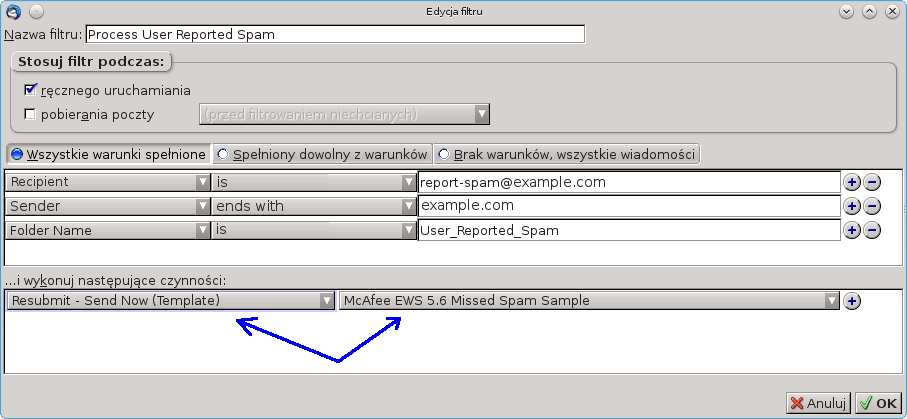
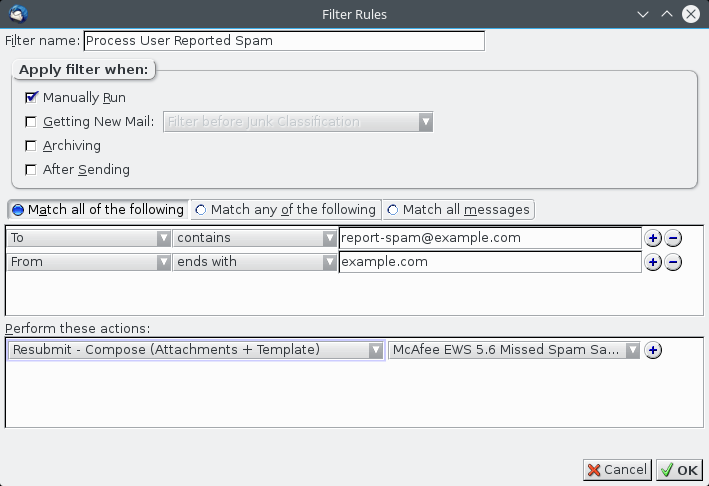
fix issue #5

diff --git a/content/messenger.js b/content/messenger.js
@@ -422,11 +422,12 @@ function Resubmit() {
         }
     };
 
-    function Collector(aCompletionFun) {
-        log("debug: Collector(): called with (" + aCompletionFun + ")", 5);
+    function Collector(aCompletionFun,aReattach) {
+        log("debug: Collector(): called with (" + aCompletionFun + ", " + aReattach + ")", 5);
         log("debug: Collector(): initializing attributes", 6);
         this.notifyComplete = function () { aCompletionFun(); };
         this.attachments = [];
+        this.reattach = aReattach;
         log("debug: Collector(): initialized", 6);
     }
 
@@ -436,12 +437,22 @@ function Resubmit() {
                 attachment,
                 i;
             log("debug: Collector.apply(): attachments.length = " + attachments.length, 7);
-            for (i = 0; i < attachments.length; i += 1) {
-                attachment = attachments[i];
-                if (attachment.contentType === "message/rfc822") {
-                    log("debug: Collector.apply(): adding attachment", 6);
-                    this.attachments.push(attachment);
+            if(this.reattach) {
+                for (i = 0; i < attachments.length; i += 1) {
+                    attachment = attachments[i];
+                    if (attachment.contentType === "message/rfc822") {
+                        log("debug: Collector.apply(): adding attachment", 6);
+                        this.attachments.push(attachment);
+                    }
                 }
+            } else {
+                log("debug: Collector.apply(): creating attachment from message", 6);
+                attachment = Cc["@mozilla.org/messengercompose/attachment;1"]
+                    .createInstance(Components.interfaces.nsIMsgAttachment);
+                attachment.url = aMsgHdr.folder.getUriForMsg(aMsgHdr);
+                attachment.name = aMsgHdr.subject + ".eml";
+                log("debug: Collector.apply(): adding attachment", 6);
+                this.attachments.push(attachment);
             }
             log("debug: Collector.apply(): invoking this.notifyComplete()", 6);
             this.notifyComplete();
@@ -452,16 +463,18 @@ function Resubmit() {
     /**
      * Usage: action = new FilterAction(...)
      */
-    function FilterAction(aId, aName, aMode, aFlag) {
+    function FilterAction(aId, aName, aMode, aFlag, aReattach) {
         log("debug: FilterAction(): called with (" + aId + ", " + aName + ", "
-            + aMode + ", " + aFlag + ")", 5);
+            + aMode + ", " + aFlag + ", " + aReattach + ")", 5);
         log("debug: FilterAction(): initializing attributes", 6);
         this.id = aId;
         this.name = aName;
         this.mode = aMode;
         this.isAvailable = aFlag;
+        this.reattach = aReattach;
         this.maxConcurrentTasks = 1;
         log("debug: FilterAction(): aMode == " + aMode, 7);
+        log("debug: FilterAction(): aReattach == " + aReattach, 7);
         switch (aMode) {
         case self.Modes.SendNow:
             log("debug: FilterAction(): this.deliverMode = Ci.nsIMsgCompDeliverMode.Now", 6);
@@ -659,7 +672,7 @@ function Resubmit() {
             function collectAttachments(aCompletionFun) {
                 log("debug: collectAttachments(): called with (" + aCompletionFun + ")", 5);
                 log("debug: collectAttachments(): creating Collector", 6);
-                collector = new Collector(function () { onAttachmentCollected(); });
+                collector = new Collector(function () { onAttachmentCollected(); }, me.reattach);
                 log("debug: collectAttachments(): created Collector", 7);
                 log("debug: collectAttachments(): reseting collector flags and counters", 6);
                 collectionCanceled = false;
@@ -757,34 +770,64 @@ function Resubmit() {
 
         var filterService = Cc["@mozilla.org/messenger/services/filters;1"]
                 .getService(Ci.nsIMsgFilterService),
-            actionCompose,
-            actionSendNow,
-            actionSendLater;
+            actionComposeAtt,
+            actionSendNowAtt,
+            actionSendLaterAtt,
+            actionComposeMsg,
+            actionSendNowMsg,
+            actionSendLaterMsg;
 
         // Create custom a actions
-        actionSendNow = new FilterAction(
+        actionSendNowAtt = new FilterAction(
             "resubmit@ezamber.pl#actionSendNow",
             self.strings.getString("resubmit.sendnow.name"),
             self.Modes.SendNow,
-            sendNowEnabled
+            sendNowEnabled,
+            true
         );
-        actionSendLater = new FilterAction(
+        actionSendLaterAtt = new FilterAction(
             "resubmit@ezamber.pl#actionSendLater",
             self.strings.getString("resubmit.sendlater.name"),
             self.Modes.SendLater,
-            sendLaterEnabled
+            sendLaterEnabled,
+            true
         );
-        actionCompose = new FilterAction(
+        actionComposeAtt = new FilterAction(
             "resubmit@ezamber.pl#actionCompose",
             self.strings.getString("resubmit.compose.name"),
             self.Modes.Compose,
-            composeEnabled
+            composeEnabled,
+            true
+        );
+        actionSendNowMsg = new FilterAction(
+            "resubmit@ezamber.pl#actionSendNowMsg",
+            self.strings.getString("resubmit.sendnowmsg.name"),
+            self.Modes.SendNow,
+            sendNowEnabled,
+            false
+        );
+        actionSendLaterMsg = new FilterAction(
+            "resubmit@ezamber.pl#actionSendLaterMsg",
+            self.strings.getString("resubmit.sendlatermsg.name"),
+            self.Modes.SendLater,
+            sendLaterEnabled,
+            false
+        );
+        actionComposeMsg = new FilterAction(
+            "resubmit@ezamber.pl#actionComposeMsg",
+            self.strings.getString("resubmit.composemsg.name"),
+            self.Modes.Compose,
+            composeEnabled,
+            false
         );
 
         // Register custom actions
-        filterService.addCustomAction(actionCompose);
-        filterService.addCustomAction(actionSendNow);
-        filterService.addCustomAction(actionSendLater);
+        filterService.addCustomAction(actionComposeAtt);
+        filterService.addCustomAction(actionSendNowAtt);
+        filterService.addCustomAction(actionSendLaterAtt);
+        filterService.addCustomAction(actionComposeMsg);
+        filterService.addCustomAction(actionSendNowMsg);
+        filterService.addCustomAction(actionSendLaterMsg);
     };
 
     self.onLoad = function (e) {

diff --git a/skin/filterEditor.css b/skin/filterEditor.css
@@ -7,3 +7,12 @@
 .ruleactiontarget[type="resubmit@ezamber.pl#actionSendLater"] {
   -moz-binding: url("chrome://messenger/content/searchWidgets.xml#ruleactiontarget-replyto"); 
 }
+.ruleactiontarget[type="resubmit@ezamber.pl#actionComposeMsg"] {
+  -moz-binding: url("chrome://messenger/content/searchWidgets.xml#ruleactiontarget-replyto"); 
+}
+.ruleactiontarget[type="resubmit@ezamber.pl#actionSendNowMsg"] {
+  -moz-binding: url("chrome://messenger/content/searchWidgets.xml#ruleactiontarget-replyto"); 
+}
+.ruleactiontarget[type="resubmit@ezamber.pl#actionSendLaterMsg"] {
+  -moz-binding: url("chrome://messenger/content/searchWidgets.xml#ruleactiontarget-replyto"); 
+}

diff --git a/README.rst b/README.rst
@@ -7,12 +7,13 @@ multiple senders.
 Overview
 --------
 
-This tool is designated for network/mail administrators. Having a bunch of
-messages forwarded to you by your users, the **Resubmit** tool extracts all
-attached messages from these emails, then for each extracted message it
-composes a **new** message with the extracted message attached to it and sends
-the **new** message  to a specified recipient(s). It's particularly useful as
-a tool for supervised spam/ham sample resubmission.
+This tool helps with an automatic resubmission of messages to a predefined
+destination. Its most common purpose is a (re)submission of spam samples to a
+spam reporting centre. Having a bunch of messages (possibly forwarded to you
+as attachments), the **Resubmit** tool composes a **new** message with the
+original one attached to it and sends the **new** message  to a specified
+recipient(s). It's particularly useful as a tool for supervised spam/ham sample
+resubmission.
 
 Motivation
 ----------
@@ -31,24 +32,37 @@ and re-submit them manually. So, this is basically job for a tool such as
 More details
 ------------
 
-The extension defines three new filter actions, which may be used to create
+The extension defines six new filter actions, which may be used to create
 custom filters for resubmission. The filter actions are:
 
-- **Resubmit - Send Now (Template)**,
-- **Resubmit - Send Later (Template)**, and
-- **Resubmit - Compose (Template)**.
+- **Resubmit - Send Now (Attachments + Template)**,
+- **Resubmit - Send Later (Attachments + Template)**,
+- **Resubmit - Compose (Attachments + Template)**,
+- **Resubmit - Send Now (Message + Template)**,
+- **Resubmit - Send Later (Message + Template)**, and
+- **Resubmit - Compose (Message + Template)**.
 
 Each action uses a template message which defines all the details of the
 **new** message to be sent. Specifically, it contains sender and recipient
 addresses, subject and content. The filter action just appends an attachment
-(extracted from the source message) to the template and submits it in this
-form. 
+(being an attachment extracted from the source message or the source message
+itself) to the template and submits it in this form.
 
-The **Resubmit - Send Now (Template)** action wraps an extracted attachment
-with template message and sends it to recipient(s) specified in the template.
-The **Resubmit - Send Later (Template)** does the similar, but queues the
-composed **new** message to be sent later. The **Resubmit - Compose 
-(Template)** opens every **new** message in a compose window and lets you
+The **Resubmit - Send Now (Attachments + Template)** action wraps an extracted
+attachment with template message and sends it to recipient(s) specified in the
+template. The **Resubmit - Send Later (Attachment + Template)** does the
+similar, but queues the composed **new** message to be sent later. The
+**Resubmit - Compose (Attachment + Template)** opens every **new** message in a
+compose window and lets you inspect it, modify, send, save, queue or do
+whatever the compose window allows to.
+
+The **Resubmit - Send Now (Message + Template)** action wraps the original
+message with template message and sends it to recipient(s) specified in the
+template (it's equivalent to a **forward as attachment** functionality, so that
+the source message get's forwarded as an attachment to template message). The
+**Resubmit - Send Later (Message + Template)** does the similar, but queues the
+composed **new** message to be sent later. The **Resubmit - Compose (Message +
+Template)** opens every **new** message in a compose window and lets you
 inspect it, modify, send, save, queue or do whatever the compose window allows
 to.
 
@@ -65,20 +79,20 @@ is to use the filter.
    .. image:: images/resubmit-compose-template.png
      :align: center
 
-#. Create new filter. Go to *Tools* | *Filter*, create a new filter, name it
-   for example *Process User Reported Spam*.
+#. Create new filter. Go to *Tools* | *Message Filters*, create a new filter,
+   name it for example *Process User Reported Spam*.
 
    .. image:: images/resubmit-filter-list.png
      :align: center
 
    configure the filter conditions and add one of the **Resubmit** actions, for
-   example **Resubmit - Send Now (Template)**. Choose the previously saved
-   template.
+   example **Resubmit - Send Now (Attachments + Template)**. Choose the
+   previously saved template.
 
    .. image:: images/resubmit-filter-dialog.png
      :align: center
-   
-#. Apply the filter, e.g. *Tools* | *Apply filters to selected messages*.
+
+#. Apply the filter, e.g. *Tools* | *Run Filters on Message*.
 
    .. image:: images/resubmit-batchwin.png
      :align: center
@@ -108,7 +122,7 @@ settings - ``Enable ...`` check-box and ``Max.  no. of ....`` text field. The
 certain action, it will be unavailable for selection when creating mail
 filters. The ``Max. no. of ...`` defines the maximum number of messages being
 sent concurrently or (in case of **Compose** action) maximum number of compose
-windows being opened simultaneously. 
+windows being opened simultaneously.
 
 .. image:: images/resubmit-cfgdialog-actions.png
   :align: center
@@ -125,7 +139,7 @@ Debugging
 ---------
 
 If you need to change debugging options for **Resubmit** but have problems with
-running the configuration dialog, go to the Thunderbird's settings editor 
+running the configuration dialog, go to the Thunderbird's settings editor
 (*Edit* | *Preferences* | *Advanced* | *Settings editor*) and adjust the
 following preferences::
 
@@ -136,14 +150,14 @@ The possible values of debugging level are ``1`` to ``7``.
 
 If you need early debugging, run the **Thunderbird** from CLI as follows::
 
-    thunderbird -jsconsole & 
+    thunderbird -jsconsole &
 
 License
 -------
 
 Resubmit - a Thunderbird extension to re-submit attached messages.
 
-Copyright (C) 2014  Paweł Tomulik <ptomulik@meil.pw.edu.pl>
+Copyright (C) 2014-2016  Paweł Tomulik <ptomulik@meil.pw.edu.pl>
 
 This program is free software: you can redistribute it and/or modify
 it under the terms of the GNU General Public License as published by
@@ -159,4 +173,4 @@ You should have received a copy of the GNU General Public License
 along with this program.  If not, see <http://www.gnu.org/licenses/>.
 
 .. _Best Practices - Submitting spam samples to McAfee: https://community.mcafee.com/docs/DOC-1409
-.. _Mail Merge: https://addons.mozilla.org/thunderbird/addon/mail-merge/ 
+.. _Mail Merge: https://addons.mozilla.org/thunderbird/addon/mail-merge/
